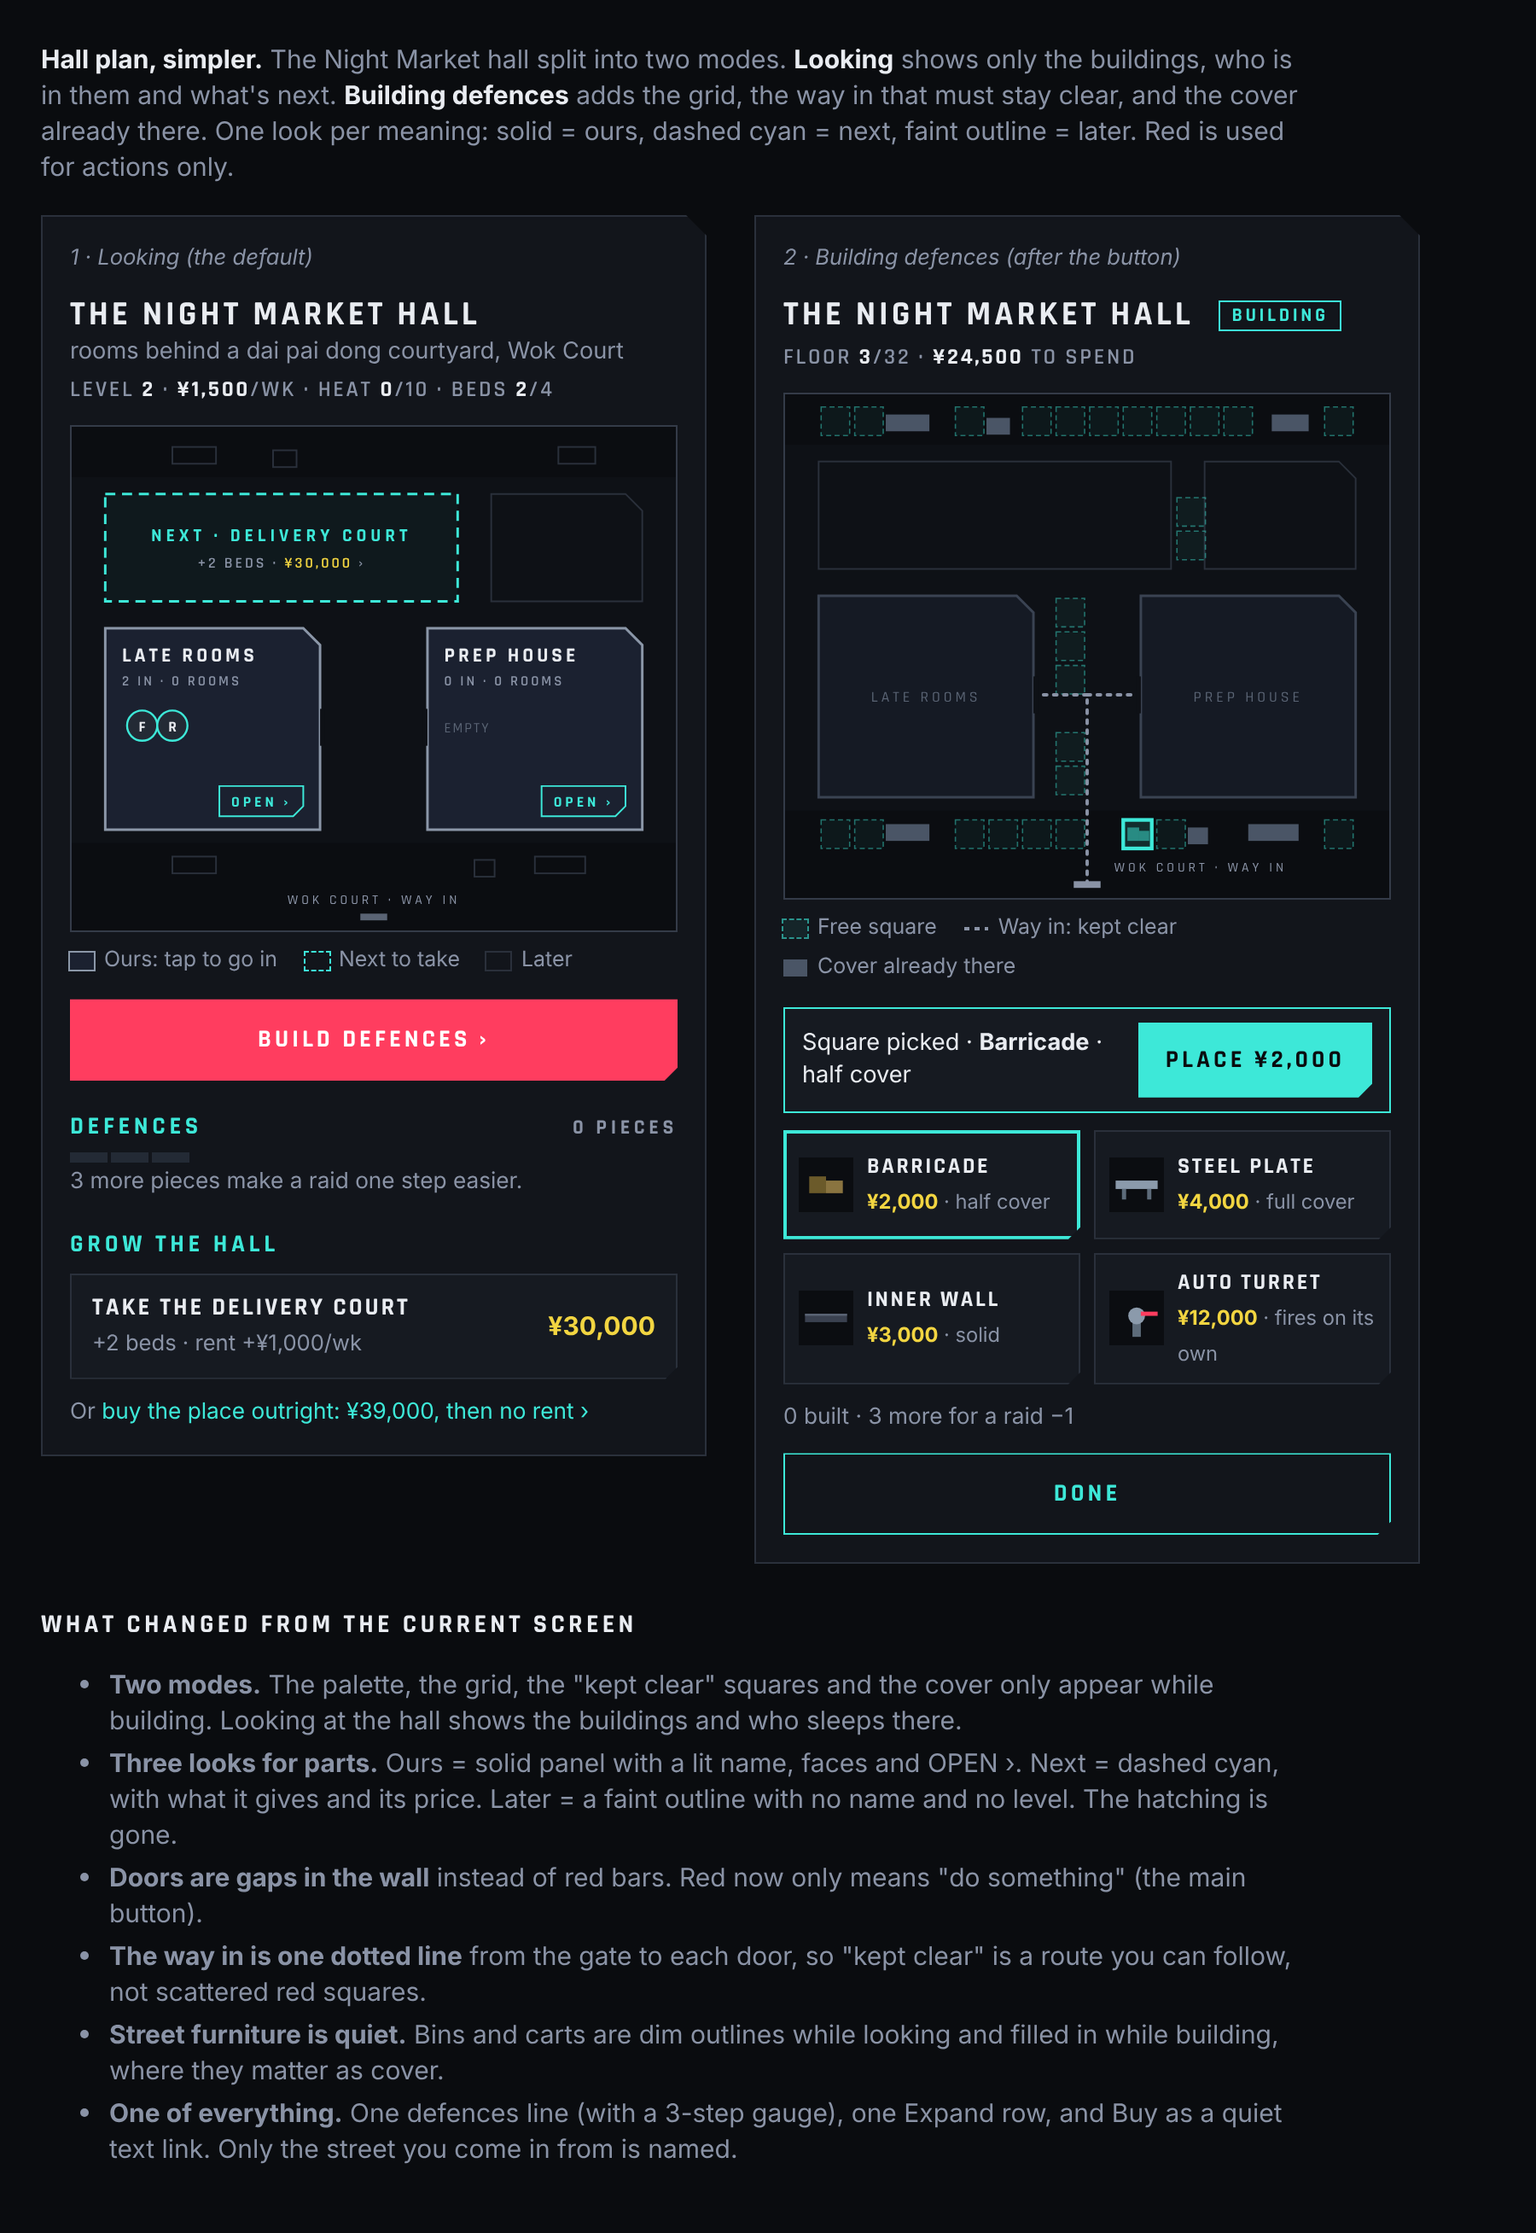
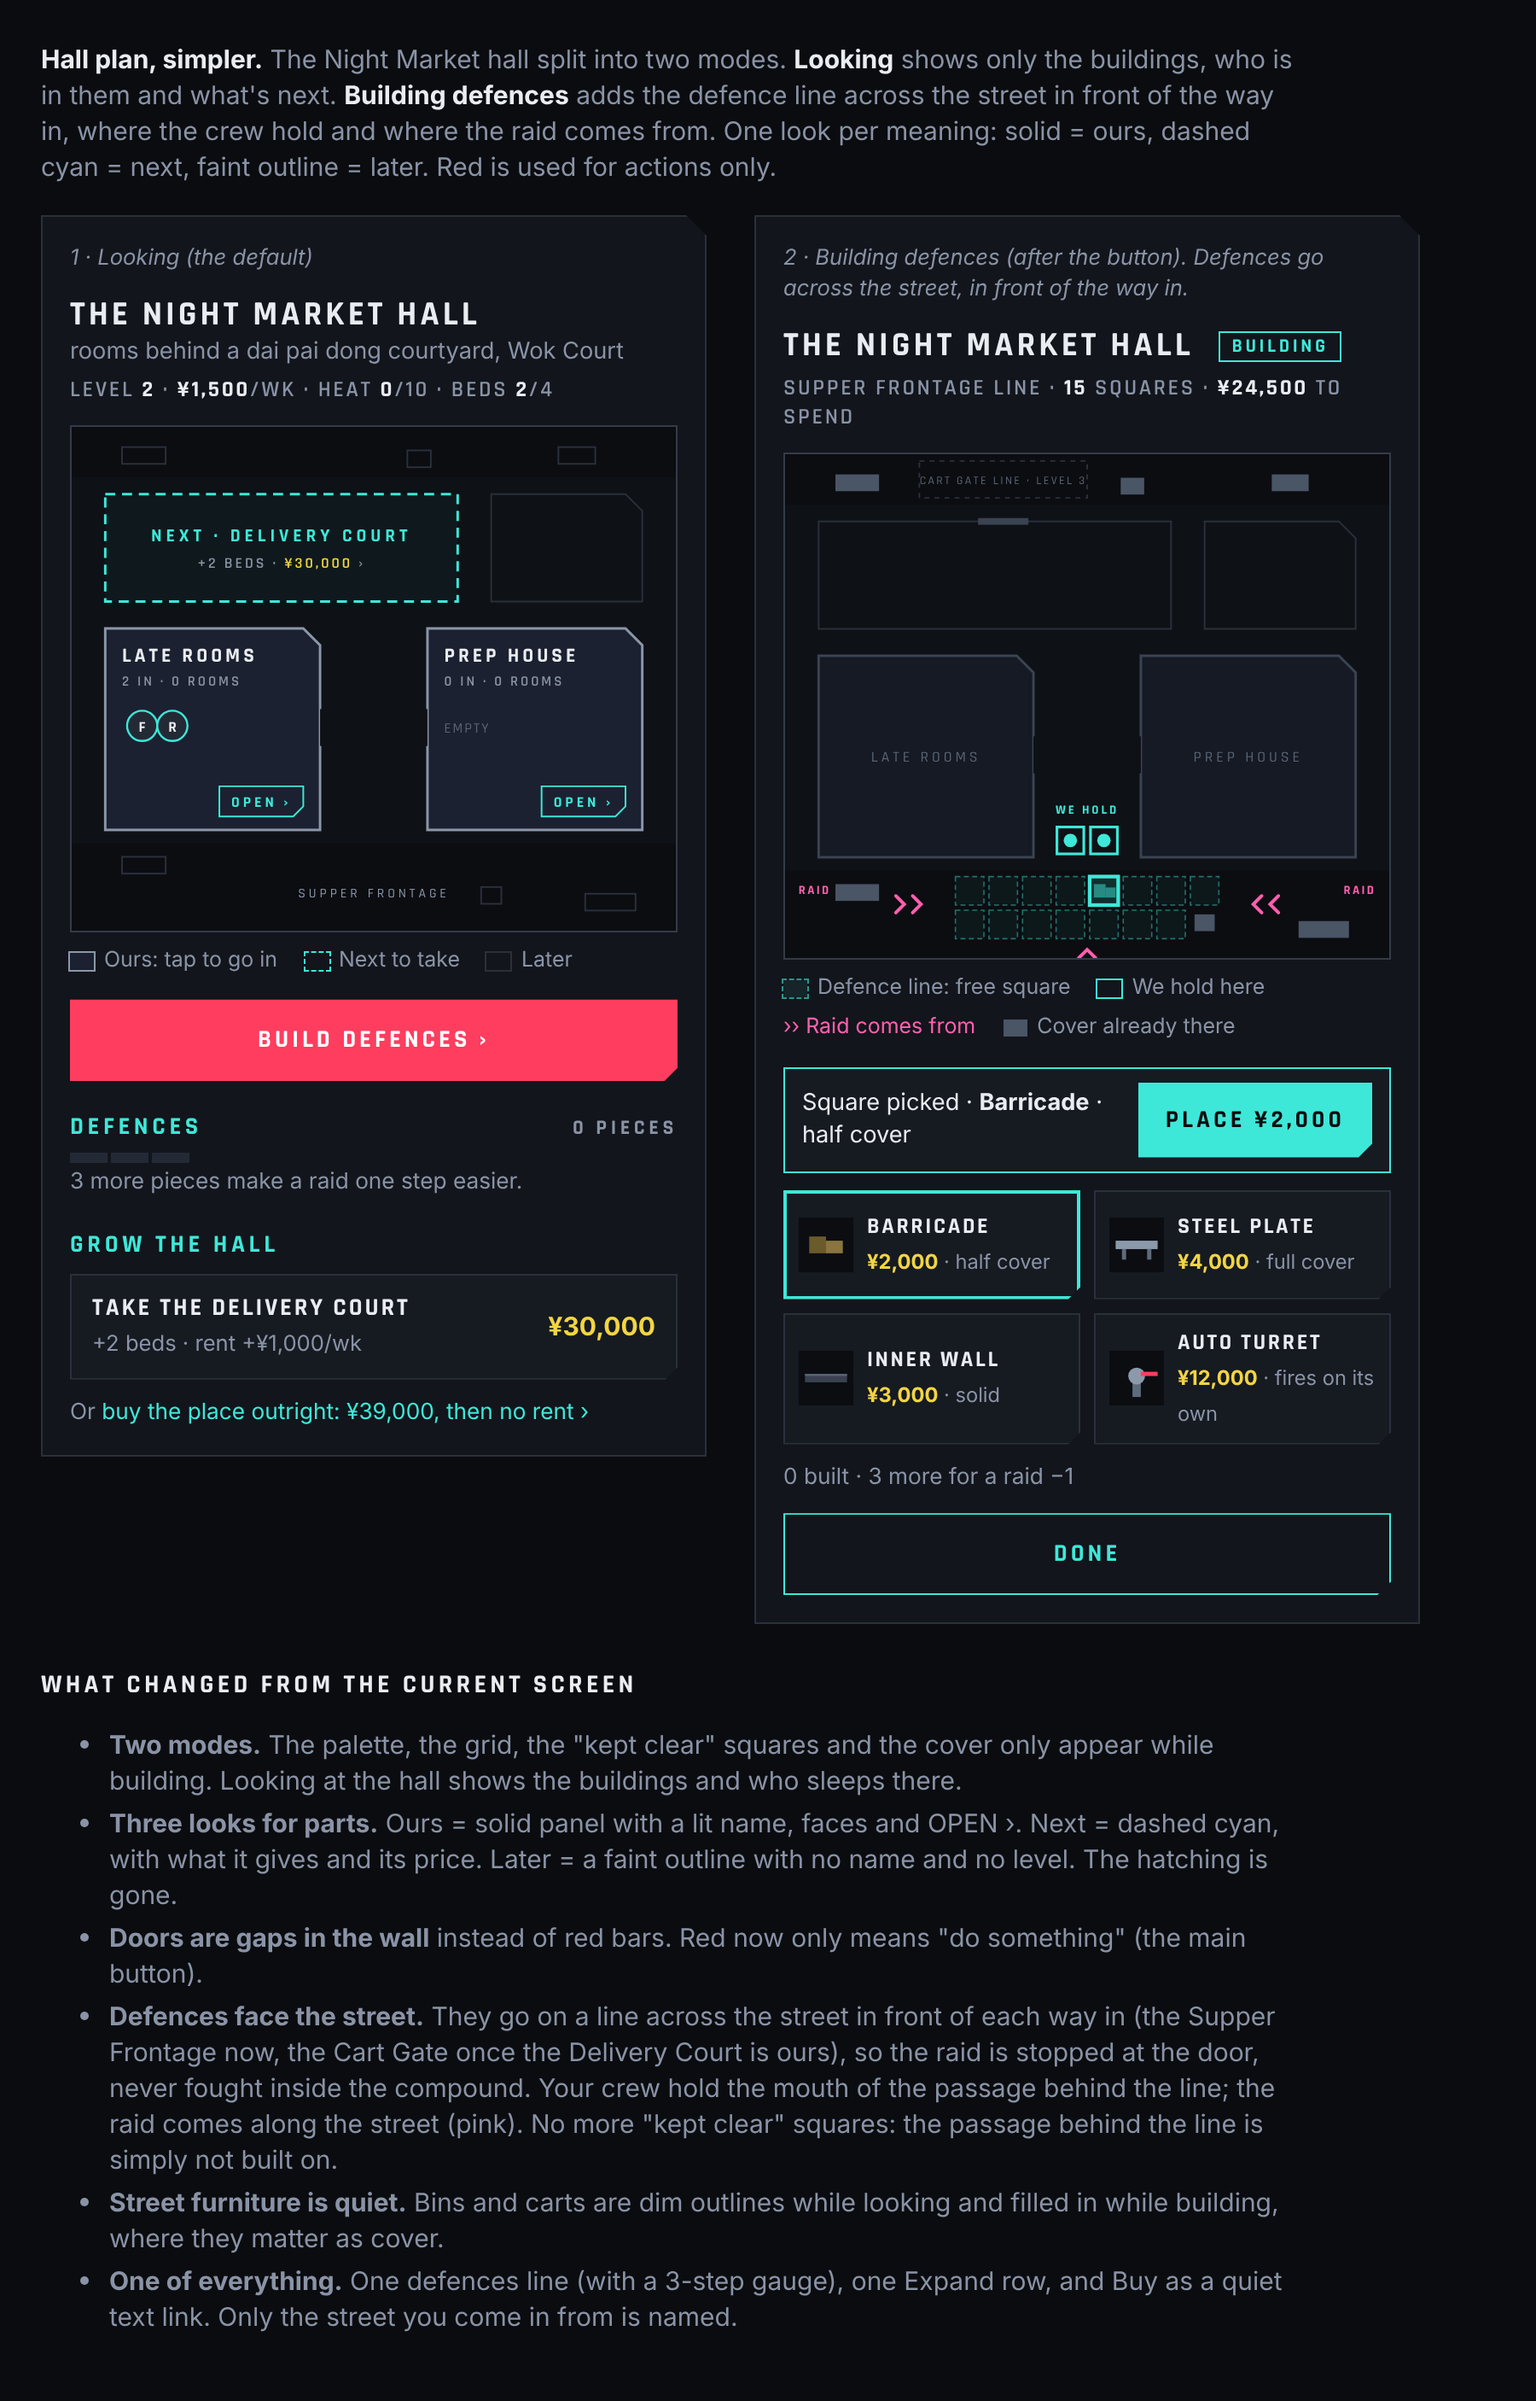
Mock-up: defences on a line across the street in front of the way in

diff --git a/drafts/prototypes/hall-plan-simpler.html b/drafts/prototypes/hall-plan-simpler.html
@@ -38,7 +38,7 @@ h2 span { color: var(--muted); font-size: .75rem; }
 .bar .btn { width: auto; padding: 0 16px; min-height: 44px; }
 .changes { max-width: 78ch; color: var(--muted); margin-top: 26px; } .changes h3 { color: var(--text); font: 700 .95rem var(--display); letter-spacing: .14em; text-transform: uppercase; } .changes li { margin: 4px 0; }
 </style></head><body>
-<p class="note"><b>Hall plan, simpler.</b> The Night Market hall split into two modes. <b>Looking</b> shows only the buildings, who is in them and what's next. <b>Building defences</b> adds the grid, the way in that must stay clear, and the cover already there. One look per meaning: solid = ours, dashed cyan = next, faint outline = later. Red is used for actions only.</p>
+<p class="note"><b>Hall plan, simpler.</b> The Night Market hall split into two modes. <b>Looking</b> shows only the buildings, who is in them and what's next. <b>Building defences</b> adds the defence line across the street in front of the way in, where the crew hold and where the raid comes from. One look per meaning: solid = ours, dashed cyan = next, faint outline = later. Red is used for actions only.</p>
 <div class="wrap">
 
 <section class="phone">
@@ -58,11 +58,11 @@ h2 span { color: var(--muted); font-size: .75rem; }
 </section>
 
 <section class="phone">
-  <p class="cap">2 · Building defences (after the button)</p>
+  <p class="cap">2 · Building defences (after the button). Defences go across the street, in front of the way in.</p>
   <h1>The Night Market Hall <span class="mode">Building</span></h1>
-  <p class="stats" style="margin-top:4px">Floor <b>3</b>/32 · <b>¥24,500</b> to spend</p>
+  <p class="stats" style="margin-top:4px">Supper Frontage line · <b>15</b> squares · <b>¥24,500</b> to spend</p>
   <svg class="plan" id="build" viewBox="0 0 360 300" role="img" aria-label="Plan of the hall with a build grid"></svg>
-  <div class="legend"><span><i style="background:rgba(61,232,216,.08);outline:1px dashed rgba(61,232,216,.6)"></i>Free square</span><span><i style="background:repeating-linear-gradient(90deg,#8a93a6 0 3px,transparent 3px 6px);height:2px"></i>Way in: kept clear</span><span><i style="background:#4a5566"></i>Cover already there</span></div>
+  <div class="legend"><span><i style="background:rgba(61,232,216,.08);outline:1px dashed rgba(61,232,216,.6)"></i>Defence line: free square</span><span><i style="outline:1.6px solid var(--cyan)"></i>We hold here</span><span style="color:#ff5fae">›› Raid comes from</span><span><i style="background:#4a5566"></i>Cover already there</span></div>
   <div class="bar"><span>Square picked · <b>Barricade</b> · half cover</span><button class="btn cyan">Place ¥2,000</button></div>
   <div class="tiles" id="tiles"></div>
   <p class="small" style="margin-top:10px">0 built · 3 more for a raid −1</p>
@@ -75,7 +75,7 @@ h2 span { color: var(--muted); font-size: .75rem; }
 <li><b>Two modes.</b> The palette, the grid, the "kept clear" squares and the cover only appear while building. Looking at the hall shows the buildings and who sleeps there.</li>
 <li><b>Three looks for parts.</b> Ours = solid panel with a lit name, faces and OPEN ›. Next = dashed cyan, with what it gives and its price. Later = a faint outline with no name and no level. The hatching is gone.</li>
 <li><b>Doors are gaps in the wall</b> instead of red bars. Red now only means "do something" (the main button).</li>
-<li><b>The way in is one dotted line</b> from the gate to each door, so "kept clear" is a route you can follow, not scattered red squares.</li>
+<li><b>Defences face the street.</b> They go on a line across the street in front of each way in (the Supper Frontage now, the Cart Gate once the Delivery Court is ours), so the raid is stopped at the door, never fought inside the compound. Your crew hold the mouth of the passage behind the line; the raid comes along the street (pink). No more "kept clear" squares: the passage behind the line is simply not built on.</li>
 <li><b>Street furniture is quiet.</b> Bins and carts are dim outlines while looking and filled in while building, where they matter as cover.</li>
 <li><b>One of everything.</b> One defences line (with a 3-step gauge), one Expand row, and Buy as a quiet text link. Only the street you come in from is named.</li>
 </ul></div>
@@ -90,9 +90,7 @@ const B = {
 };
 const cut = (b, c = 10) => `${b.x},${b.y} ${b.x + b.w - c},${b.y} ${b.x + b.w},${b.y + c} ${b.x + b.w},${b.y + b.h} ${b.x},${b.y + b.h}`;
 // Street furniture: bins, a cart, crates (fight cover).
-const COVER = [[60, 12, 26, 10], [120, 14, 14, 10], [60, 256, 26, 10], [276, 256, 30, 10], [240, 258, 12, 10], [290, 12, 22, 10]];
-// The way in: from the gate on Wok Court to each door.
-const ROUTE = 'M180 292 V250 H180 V179 M180 179 H150 M180 179 H210';
+const COVER = [[30, 12, 26, 10], [200, 14, 14, 10], [30, 256, 26, 10], [306, 278, 30, 10], [244, 274, 12, 10], [290, 12, 22, 10]];
 
 function plan(svg, mode) {
   const building = mode === 'build';
@@ -100,8 +98,7 @@ function plan(svg, mode) {
   // Ground and lanes
   s += `<rect width="360" height="300" fill="#0e1116"/>`;
   s += `<rect x="0" y="0" width="360" height="30" fill="#0b0d11"/><rect x="0" y="248" width="360" height="52" fill="#0b0d11"/>`;
-  s += `<rect x="172" y="290" width="16" height="4" fill="${building ? '#8a93a6' : '#5a6474'}"/>`;
-  s += `<text x="${building ? 196 : 180}" y="284" text-anchor="${building ? "start" : "middle"}" font-size="8" letter-spacing="2" fill="#8a93a6">Wok Court · way in</text>`;
+  if (!building) s += `<text x="180" y="280" text-anchor="middle" font-size="8" letter-spacing="2" fill="#8a93a6">Supper Frontage</text>`;
   // Later: Rice Store, a faint outline only
   s += `<polygon points="${cut(B.rice)}" fill="none" stroke="#2a303b" stroke-width="1"/>`;
   // Next: Delivery Court
@@ -126,22 +123,26 @@ function plan(svg, mode) {
     s += `<polygon points="${cx},${cy} ${cx + 50},${cy} ${cx + 50},${cy + 12} ${cx + 44},${cy + 18} ${cx},${cy + 18}" fill="none" stroke="#3de8d8"/>`;
     s += `<text x="${cx + 25}" y="${cy + 12.5}" text-anchor="middle" font-size="9" font-weight="700" letter-spacing="2" fill="#3de8d8">Open ›</text>`;
   }
-  // Build grid on the outside ground
+  // Build mode: the defence line across the street in front of each way in
   if (building) {
-    const clear = (x, y) => (x >= 170 && x < 190 && y >= 30) || (y >= 168 && y < 190 && x >= 148 && x < 212);
     const coverAt = (x, y) => COVER.some(([cx, cy, cw, ch]) => x < cx + cw && x + 20 > cx && y < cy + ch && y + 20 > cy);
-    const cells = [];
-    for (let x = 20; x < 340; x += 20) { cells.push([x, 6]); cells.push([x, 252]); }
-    for (let y = 120; y < 240; y += 20) cells.push([160, y]); for (let y = 120; y < 240; y += 20) cells.push([180, y]);
-    for (let x = 140; x < 240; x += 20) if (x >= 230 || x < 160) {} // spare
-    cells.push([232, 60], [232, 80]);
-    for (const [x, y] of cells) {
-      if (clear(x, y) || coverAt(x, y)) continue;
-      const picked = x === 200 && y === 252;
+    // The Supper Frontage, in front of the Wash Passage: two rows of street
+    for (let y = 250; y < 290; y += 20) for (let x = 100; x < 260; x += 20) {
+      if (coverAt(x, y)) continue;
+      const picked = x === 180 && y === 250;
       s += `<rect x="${x + 1.5}" y="${y + 1.5}" width="17" height="17" fill="rgba(61,232,216,${picked ? .15 : .05})" stroke="${picked ? '#3de8d8' : 'rgba(61,232,216,.45)'}" stroke-width="${picked ? 2.2 : .8}" ${picked ? '' : 'stroke-dasharray="3 2"'}/>`;
       if (picked) s += `<rect x="${x + 4}" y="${y + 6}" width="7" height="8" fill="rgba(61,232,216,.5)"/><rect x="${x + 11}" y="${y + 8}" width="6" height="6" fill="rgba(61,232,216,.5)"/>`;
     }
-    s += `<path d="${ROUTE}" fill="none" stroke="#8a93a6" stroke-width="2" stroke-dasharray="2 4" stroke-linecap="round"/>`;
+    // Our crew hold the mouth of the passage
+    for (const x of [160, 180]) s += `<rect x="${x + 2}" y="${222}" width="16" height="16" fill="none" stroke="#3de8d8" stroke-width="1.6"/><circle cx="${x + 10}" cy="230" r="4" fill="#3de8d8"/>`;
+    s += `<text x="180" y="214" text-anchor="middle" font-size="7.5" font-weight="700" letter-spacing="1.5" fill="#3de8d8">We hold</text>`;
+    // Raiders come along the street
+    const chev = (x, y, r) => `<path d="M-5 -4 L0 1 L5 -4" transform="translate(${x} ${y}) rotate(${r})" fill="none" stroke="#ff5fae" stroke-width="2" stroke-linecap="round"/>`;
+    s += chev(80, 268, -90) + chev(70, 268, -90) + chev(280, 268, 90) + chev(290, 268, 90) + chev(180, 296, 180);
+    s += `<text x="8" y="262" font-size="7.5" font-weight="700" letter-spacing="1.2" fill="#ff5fae">Raid</text><text x="352" y="262" text-anchor="end" font-size="7.5" font-weight="700" letter-spacing="1.2" fill="#ff5fae">Raid</text>`;
+    // The Cart Gate's line, once the Delivery Court is ours
+    s += `<rect x="80" y="4" width="100" height="22" fill="none" stroke="#2a303b" stroke-dasharray="3 3"/><rect x="115" y="38" width="30" height="4" fill="#3a4352"/>`;
+    s += `<text x="130" y="18" text-anchor="middle" font-size="7" letter-spacing="1.2" fill="#5a6474">Cart Gate line · level 3</text>`;
   }
   // Cover: quiet while looking, filled while building
   for (const [x, y, w, h] of COVER) s += building ? `<rect x="${x}" y="${y}" width="${w}" height="${h}" fill="#4a5566"/>` : `<rect x="${x}" y="${y}" width="${w}" height="${h}" fill="none" stroke="#2a303b"/>`;
